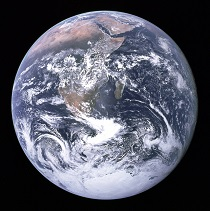
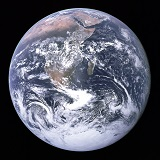
added second planet image and centered both images.

diff --git a/style.css b/style.css
@@ -21,9 +21,19 @@ tr {
   padding: 0px 0px 10px 0px; 
 }
 
-th#earth{
+th#earth {
   margin-left:190px;
+  margin-right: auto;
+  display: block;
   padding: 0px 0px 5px 0px;
+  border-bottom: none; 
+}  
+
+th#jupiter {
+  margin: auto;
+  display: block;
+  padding: 0px 0px 5px 0px;
+  border-bottom: none;
 }
 
 th{

diff --git a/index.html b/index.html
@@ -15,6 +15,7 @@
       <table>
         <tr>
           <th class="grid_2" id="earth"><img src="photos/earth2.jpg"></th>
+          <th class="grid_2" id="jupiter"><img src="photos/jupiter2.jpg"></th>
         <tr>
           <th class="grid_2">Data Fields</th>
           <th class="grid_2">Earth</th>
